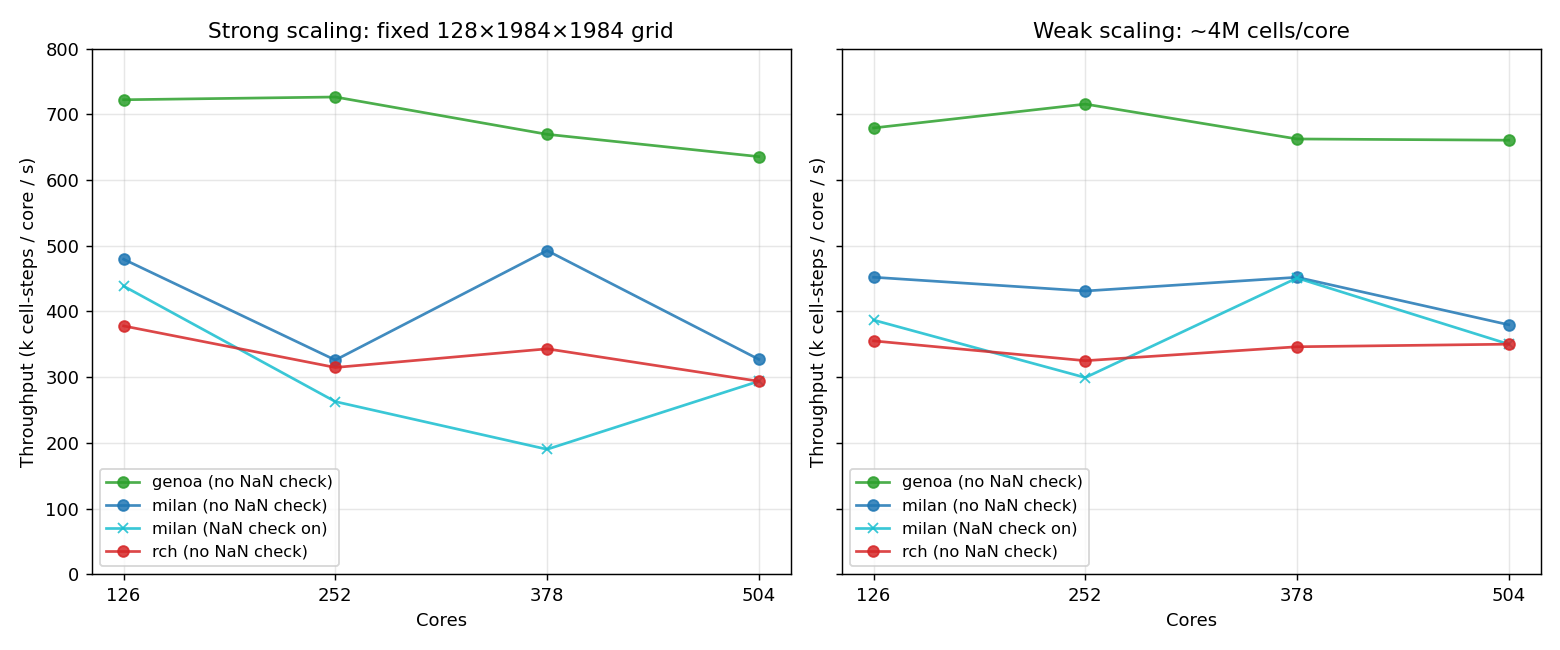
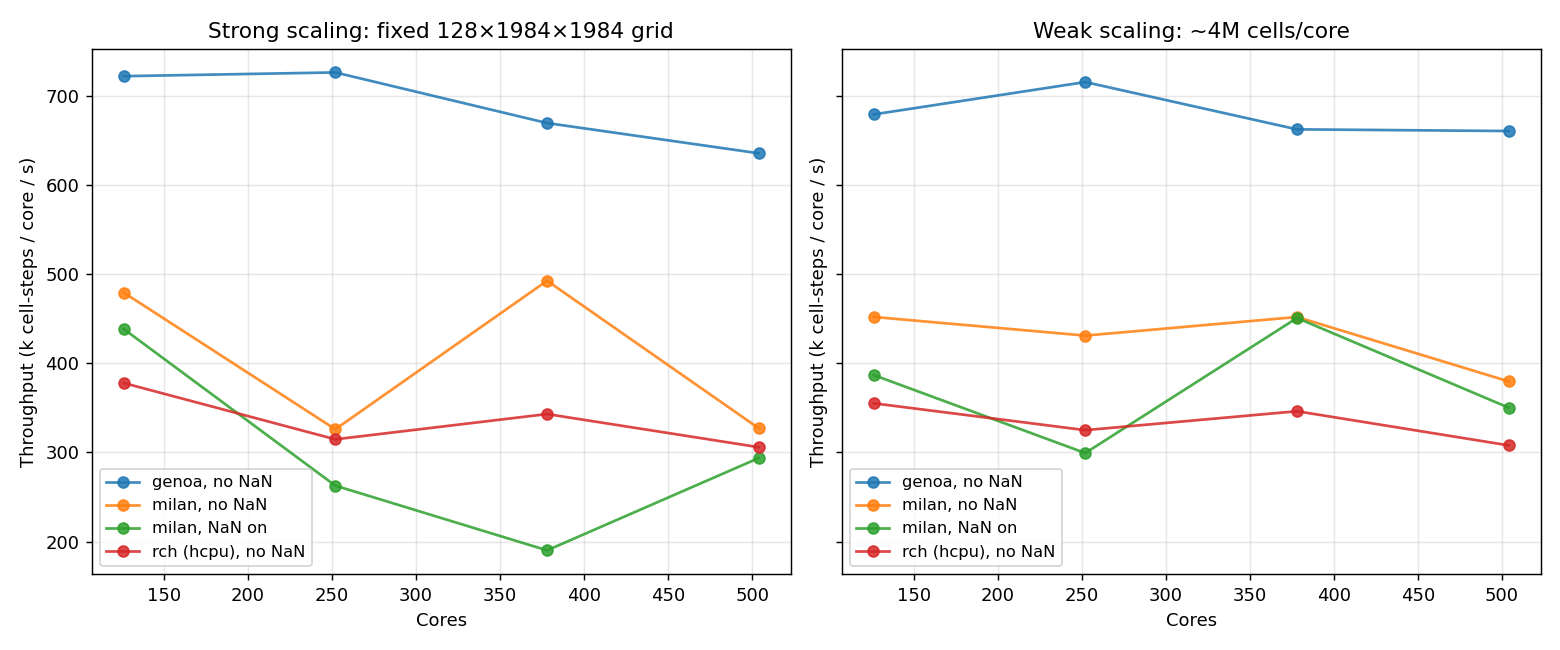
docs(scaling): correct RCH 504-core values from sacct
Replaces the previously-spliced 504-core numbers (which were from a
mis-pasted NeSI session, not RCH) with sacct-authoritative timings
back-filled into the archived cylc db: 3269 s strong / 12993 s weak
→ 306 / 308 kCS/core/s. Updates means, ranges, scaling efficiency,
weak stability, and rewrites the source-data caveat. Regenerates
the overlay PNG via compare_scaling.py against the updated db.

diff --git a/docs/cross-hpc-throughput.md b/docs/cross-hpc-throughput.md
@@ -17,11 +17,13 @@ those four data points.
 | genoa, no NaN check  | **688** / 636–726 | **679** / 661–715 |
 | milan, no NaN check  | 406 / 326–493     | 429 / 380–452     |
 | milan, NaN check on  | 296 / 190–439     | 372 / 299–451     |
-| rch (hcpu), no NaN   | 332 / 294–378     | 344 / 325–355     |
+| rch (hcpu), no NaN   | 335 / 306–378     | 334 / 308–355     |
 
 Genoa is ~2× faster per core than milan or RCH, and it's also the
-*tightest* — measurements vary by ~13 % across configurations. RCH is
-similarly tight (~16 % range) but at roughly half genoa's throughput.
+*tightest* — measurements vary by ~13 % across configurations. RCH
+runs at roughly half genoa's throughput; its weak campaign is fairly
+flat (~14 % spread) but the strong sweep is wider (~21 %), with a
+mid-sweep dip at 252 cores that recurs in the weak data too.
 Milan is in the same ballpark as RCH on average but with much wider
 spread — the strong-scaling curve zigzags 479 → 326 → 493 → 327
 between adjacent core counts, which can't be a real algorithmic
@@ -37,14 +39,14 @@ means scaling tax (communication and surface-area overhead).
 | HPC × config | 126-core throughput | 504-core throughput | Efficiency |
 |---|---|---|---|
 | genoa, no NaN  | 722 | 636 | **88 %** |
-| rch,   no NaN  | 378 | 294 | **77 %** |
+| rch,   no NaN  | 378 | 306 | **81 %** |
 | milan, no NaN  | 479 | 327 | 68 % (dominated by hardware noise) |
 
-Genoa scales very well to 4 nodes. RCH's 77 % is solid, particularly
-since the absolute throughput is steady across all four points
-(294–378). The milan number is consistent with what its weak-scaling
-curve also shows: the partition is too heterogeneous for a single
-efficiency number to be meaningful at this sample size.
+Genoa scales very well to 4 nodes. RCH's 81 % is solid; the four
+points span 306–378 with a mid-sweep dip at 252 cores rather than a
+monotonic decline. The milan number is consistent with what its
+weak-scaling curve also shows: the partition is too heterogeneous
+for a single efficiency number to be meaningful at this sample size.
 
 ## Weak scaling stability
 
@@ -56,13 +58,14 @@ ratio:
 | HPC × config | 126 weak | 504 weak | Stability |
 |---|---|---|---|
 | genoa | 679 | 661 | **97 %** — flat |
-| rch   | 355 | 350 | **99 %** — flat |
+| rch   | 355 | 308 | 87 %        |
 | milan, no NaN | 452 | 380 | 84 % |
 | milan, NaN on | 387 | 350 | 91 % |
 
-Both genoa and RCH are excellent here. Milan degrades, but with the
-caveat that the underlying nodes weren't the same set across the four
-runs.
+Genoa is excellent here. RCH is reasonable — flatter than milan, but
+the 504-core point pulls the stability number well below genoa's.
+Milan degrades, but with the caveat that the underlying nodes weren't
+the same set across the four runs.
 
 ## Milan internal variability
 
@@ -177,11 +180,12 @@ the cell × step counts from
 `cylc/cylc-src/flow/{weak,strong}_scaling.csv` and the strong-test
 input file. The plot is generated by `scripts/compare_scaling.py`.
 
-**Caveat on the RCH archive**: the tarball was pulled while the two
-504-core jobs were still queued on RCH, so its `log/db` only has
-the 126 / 252 / 378 timings. The 504-core numbers used here come
-from the on-RCH sqlite query
-(`strong_test504` ran 56 m 44 s ≈ 3404 s; `weak_test504` ran 3 h
-10 m 25 s ≈ 11 425 s). Re-pulling the archive after the workflow
-fully completes will let `compare_scaling.py` reproduce the n=4
-numbers without manual splicing.
+**Note on the RCH 504 timings**: the cylc scheduler on the RCH login
+node died before the 504-core jobs left the queue, so it never
+recorded their completion in `log/db`. The two jobs (Slurm 164927
+strong, 165473 weak) ran successfully on 2026-04-27. Their
+`time_run` / `time_run_exit` were back-filled into the archived db
+by hand via a sqlite `UPDATE` from sacct's Start/End, so
+`compare_scaling.py` reads all four points directly. To avoid the
+back-fill on future RCH runs, launch the scheduler under
+`tmux` / `screen` so it survives a login-session timeout.
